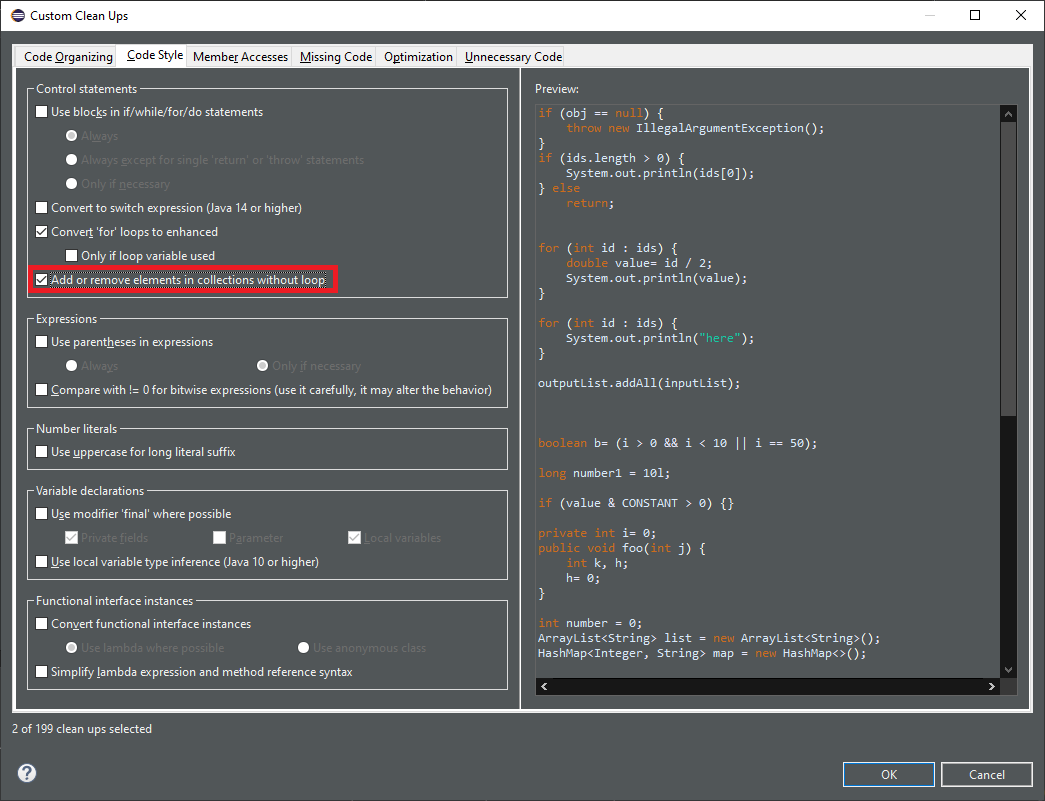
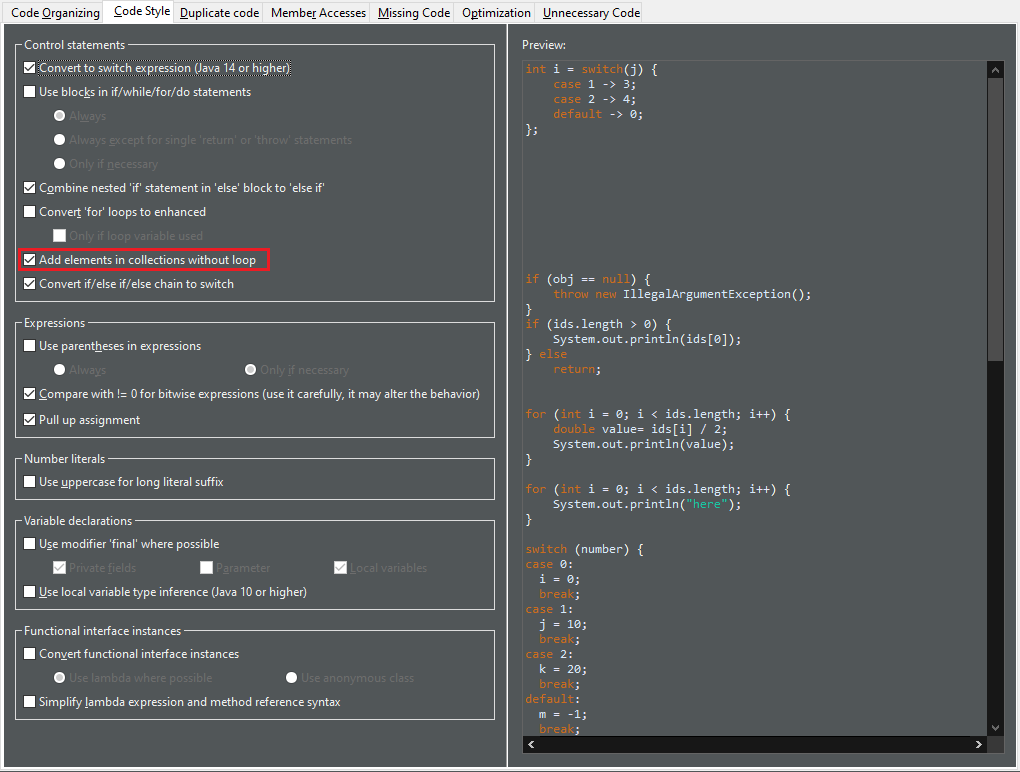
Bug 567335 - Update the preference tab screenshots
Depends-On: I84dc837d4dcd89fa5f423905b841a3199918de51

Changed region(s): [[0.0, 0.0, 1.0, 1.0], [0.3039, 0.715, 0.3647, 0.7461], [0.3343, 0.6528, 0.3647, 0.6839]]

diff --git a/4.18/jdt.html b/4.18/jdt.html
@@ -138,7 +138,7 @@ ul {padding-left: 13px;}
       <p>
         To apply the clean up, invoke <b>Source &gt; Clean Up...</b>, use a custom profile, and on the <b>Configure...</b> dialog, select <b>Convert to switch expression</b> check box on the <b>Code Style</b> tab.
       </p>
-      <p><img src="images/switch-expressions-preferences.png" alt="Preferences"/></p>
+      <p><img src="images/switch-expressions-preferences.png" alt="Preferences" width="800 px"/></p>
       <p>
         For the given code:
       </p>
@@ -413,6 +413,7 @@ ul {padding-left: 13px;}
       <p>
         To apply the clean up, invoke <b>Source &gt; Clean Up...</b>, use a custom profile, and on the <b>Configure...</b> dialog, select <b>Use Objects.hash()</b> check box on the <b>Unnecessary Code</b> tab.
       </p>
+      <p><img src="images/hash-preferences.png" alt="Preferences" width="800 px"/></p>
       <p>
         For the given code:
       </p>
